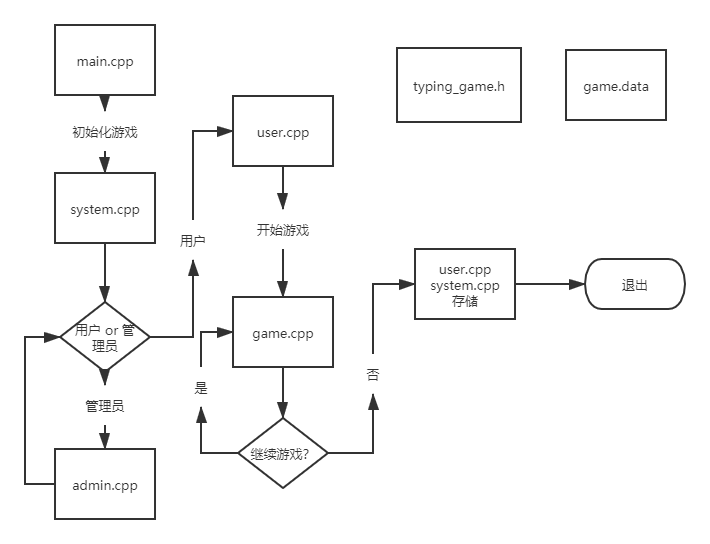
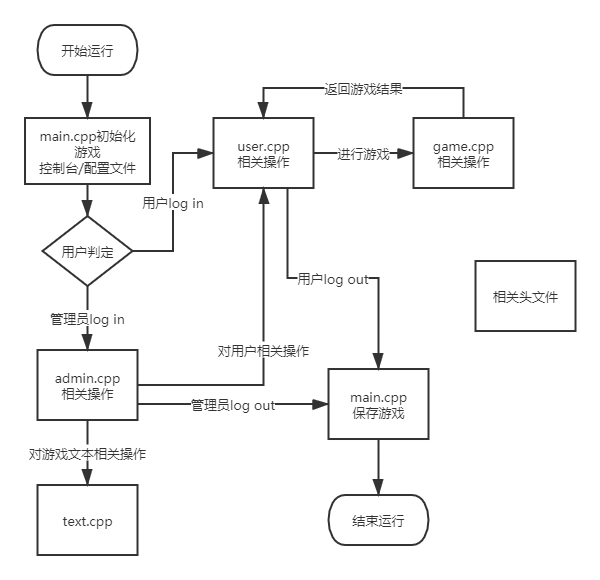
修改设计文档

diff --git a/打字游戏 Typing Game 设计文档.md b/打字游戏 Typing Game 设计文档.md
@@ -6,108 +6,72 @@
 
 ## 总体架构
 
-- typing_game.h 实现相关的变量、函数、类的声明
-- admin.cpp 实现管理员相关的操作
-- system.cpp 实现游戏的初始化、游戏的存储等操作
-- game.cpp 实现游戏的主要内容
-- user.cpp 实现用户相关的操作
-- main.cpp 实现程序主函数main()
-- game.data 存储游戏数据
-
-各模块间关系见流程图
-
 ![流程图](流程图.png)
 
-### admin.cpp
+- admin.h和admin.cpp 实现管理员的相关操作
 
-主要用于实现管理员的操作：打字练习文本的增改删，用户管理，游戏设定调整
+管理员密码设定、管理员密码修改、管理员对用户组的各种操作、管理员对游戏配置的各种操作
 
-- GameTextAdd()
+- game.h和game.cpp 实现游戏内容
 
-从控制台或指定文件路径获取新的打字练习文本
+主要的游戏内容，具体实现见代码
 
-- GameTextEdit()
+- record.h 提供了对游戏记录的定义
 
-输出需要修改的原文本到控制台，管理员将其拷贝到文本编辑器修改后再从控制台输入。
+```c++
+struct Record
+{
+	tm time;
+	int used_time;
+	int text_id;
+	int user_id;
+};
+```
 
-- GameTextDelete()
+游戏记录包含游戏时间、游戏用时、游戏文本的编号、用户编号
 
-删除指定的打字练习文本
+- text.h和text.cpp 实现游戏文本的相关操作
 
-- UserAllQuery()
+构建两个类，`class Words{}`和`class Text{}`分别实现对多单词的文本的操作和对多行的文本的操作
 
-获取所有的用户信息，输出到控制台
+人为地，令所有多单词文本的`text_id`最后1位为偶数，所有多行文本的`text_id`最后1位为奇数，以实现数据读入、存储时的快速区分。
 
-- UserQuery()
+- user.h和user.cpp 实现用户的相关操作
 
-获取指定用户的信息，输出到控制台
+构造一个所有用户类
 
-- UserEdit()
+```c++
+class User
+{
+public:
+	//相关函数
+private:
+	std::vector <User_Info> all_user_;
+};
+```
 
-在程序的引导下修改用户的包括密码在内的各项信息或删除用户
+某个用户的信息由编号、不含空格的昵称和不含空格的密码组成
 
-- GameLevelEdit()
+- main.cpp 实现对整个程序的控制
 
-修改游戏向用户开放的最低和最高难度
+`int main()`开头实现从已存在的配置文件game.data（或全新地从控制台）初始化游戏
 
-### system.cpp
+`return 0`前实现将游戏保存到配置文件game.data
 
-- GameInitialize()
+## 需求
 
-同目录下找到游戏配置文件，游戏初始化
+管理员需求：
 
-- GameNew()
+1. 管理员自身信息修改
+2. 对用户信息进行增删改
+3. 对游戏配置进行增删改
 
-同目录下未找到游戏配置文件，按预设参数初始化游戏
+用户（玩家）需求：
 
-- GameSave()
+1. 注册、登录、登出、注销
+2. 进行游戏
+3. 查看自己的所有游戏记录
+4. 查看某游戏关卡（即某文本）的所有玩家的游戏记录
+5. 查看某玩家的游戏记录
+6. **对其他玩家的记录发起挑战(feature)**
 
-保存游戏但不退出
-
-- GameExit()
-
-退出游戏
-
-### game.cpp
-
-- RoundSelect()
-
-引导用户选择游戏文本
-
-- NewRound()
-
-指定游戏文本，开始新游戏
-
-- GetRank()
-
-获取游戏所有用户战绩排名
-
-- GetGameRecord()
-
-获取当前用户的所有游戏记录
-
-### user.cpp
-
-- UserInitialize()
-
-从文件初始化用户列表
-
-- NewUser()
-
-创建一个新用户
-
-- QueryGameRecord()
-
-查询指定用户所有游戏记录
-
-- RankAllUser()
-
-对所有用户进行一定规则的排序并返回
-
-- UserProfileEdit()
-
-引导用户修改个人资料
-
-### 数据结构
-
-几乎全部使用线性表（std::vector）存储数据
